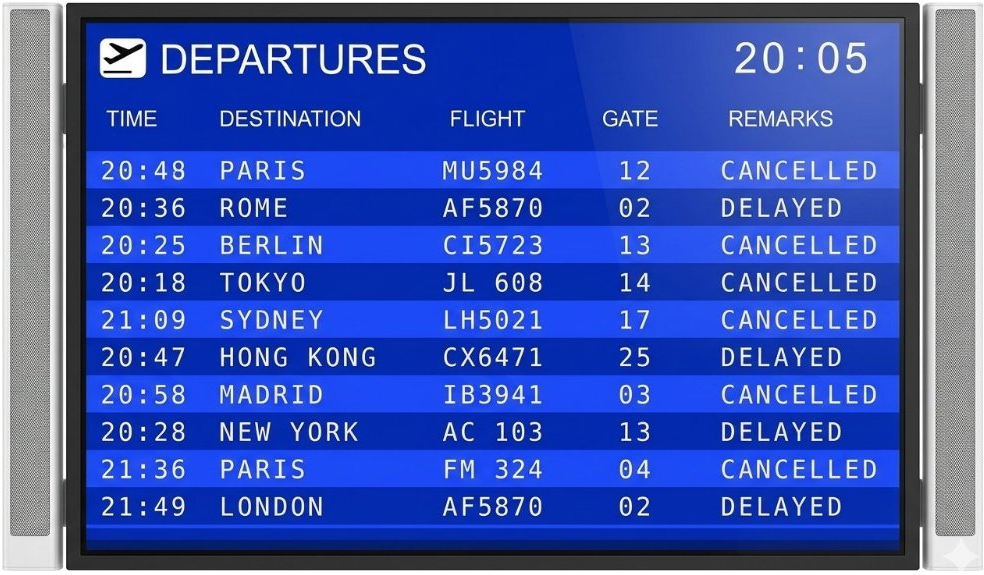
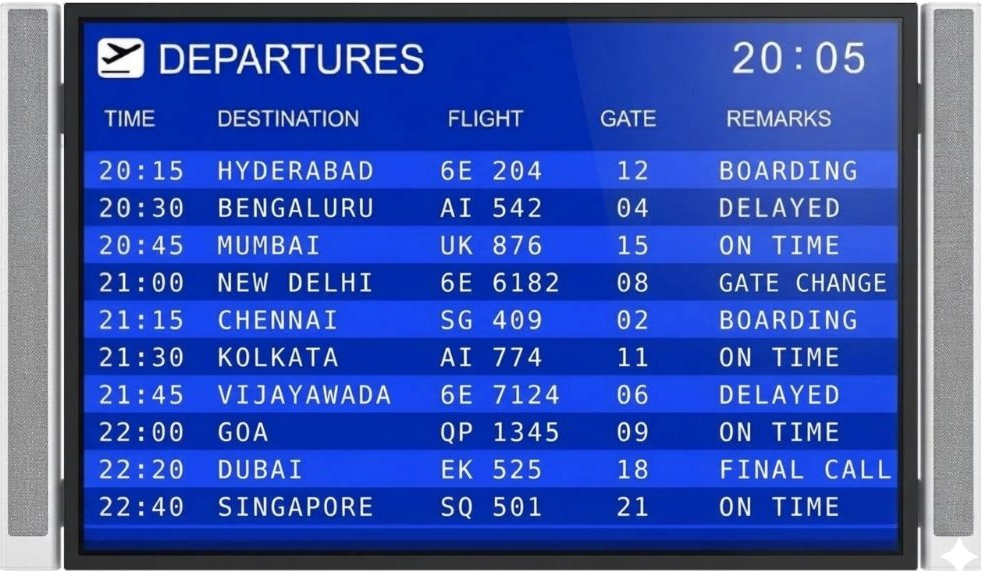
feat: update flight legacy FIDS board to display 6E 6182 gate change flight

diff --git a/src/App.jsx b/src/App.jsx
@@ -230,14 +230,14 @@ const TRANSIT_DATA = {
     },
     board: {
       title: "Flight Gate Board",
-      subtitle: "Hyderabad RGIA Terminal 1",
+      subtitle: "Departures Concourse - Gate 08",
       cols: ["Flight", "Time", "Gate"],
       items: [
-        { no: "6E 6182", name: "New Delhi (DEL) • IndiGo", time: "10:15", status: "Gate Change", badge: "Gate 08", key: "active" },
-        { no: "AI 840", name: "Mumbai (BOM) • Air India", time: "10:45", status: "Boarding", badge: "Gate 04", key: "f1" },
-        { no: "EK 527", name: "Dubai (DXB) • Emirates", time: "11:20", status: "On Time", badge: "Gate 12", key: "f2" },
-        { no: "QP 1302", name: "Bengaluru (BLR) • Akasa Air", time: "11:40", status: "Scheduled", badge: "Gate 06A", key: "f3" },
-        { no: "6E 2154", name: "Goa (GOX) • IndiGo", time: "12:05", status: "Scheduled", badge: "Gate 10", key: "f4" }
+        { no: "6E 6182", name: "New Delhi (DEL) • IndiGo", time: "21:00", status: "Gate Change", badge: "Gate 08", key: "active" },
+        { no: "6E 204", name: "Hyderabad (HYD) • IndiGo", time: "20:15", status: "Boarding", badge: "Gate 12", key: "f1" },
+        { no: "AI 542", name: "Bengaluru (BLR) • Air India", time: "20:30", status: "Delayed", badge: "Gate 04", key: "f2" },
+        { no: "UK 876", name: "Mumbai (BOM) • Vistara", time: "20:45", status: "On Time", badge: "Gate 15", key: "f3" },
+        { no: "SG 409", name: "Chennai (MAA) • SpiceJet", time: "21:15", status: "Boarding", badge: "Gate 02", key: "f4" }
       ]
     }
   }
